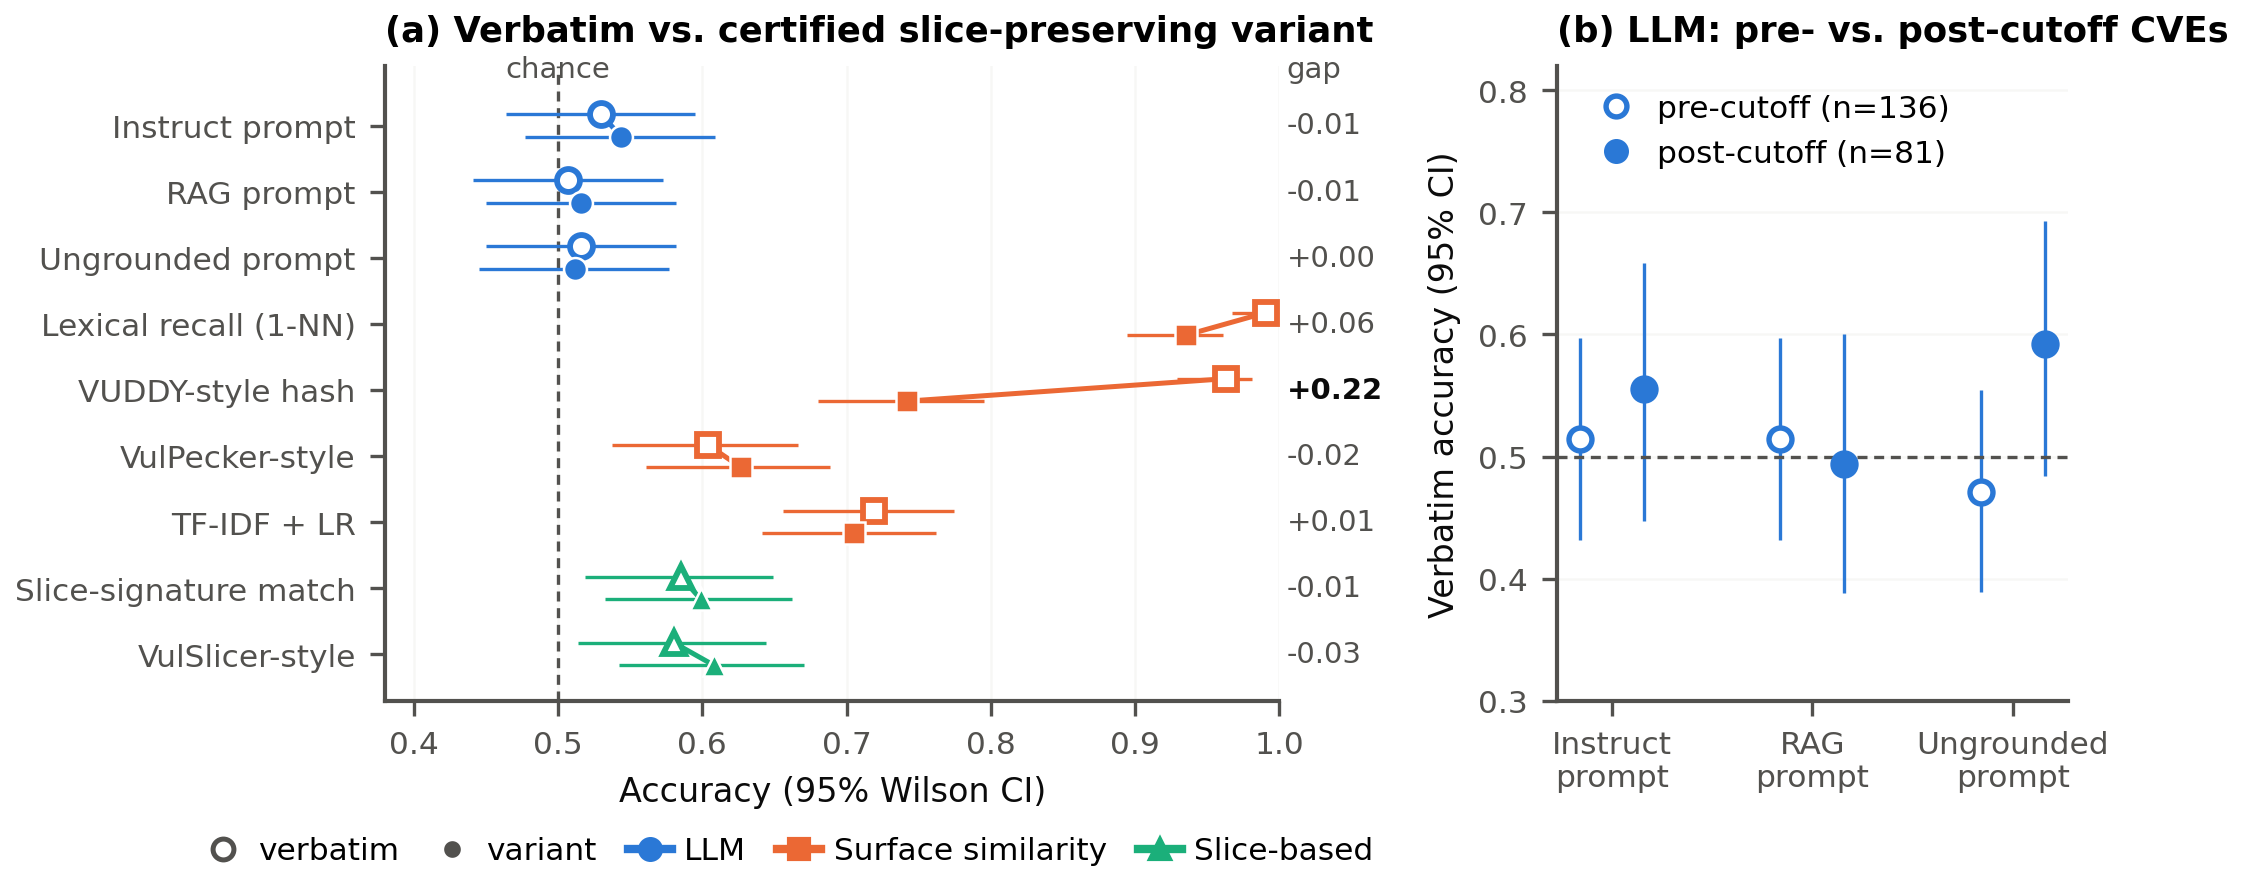
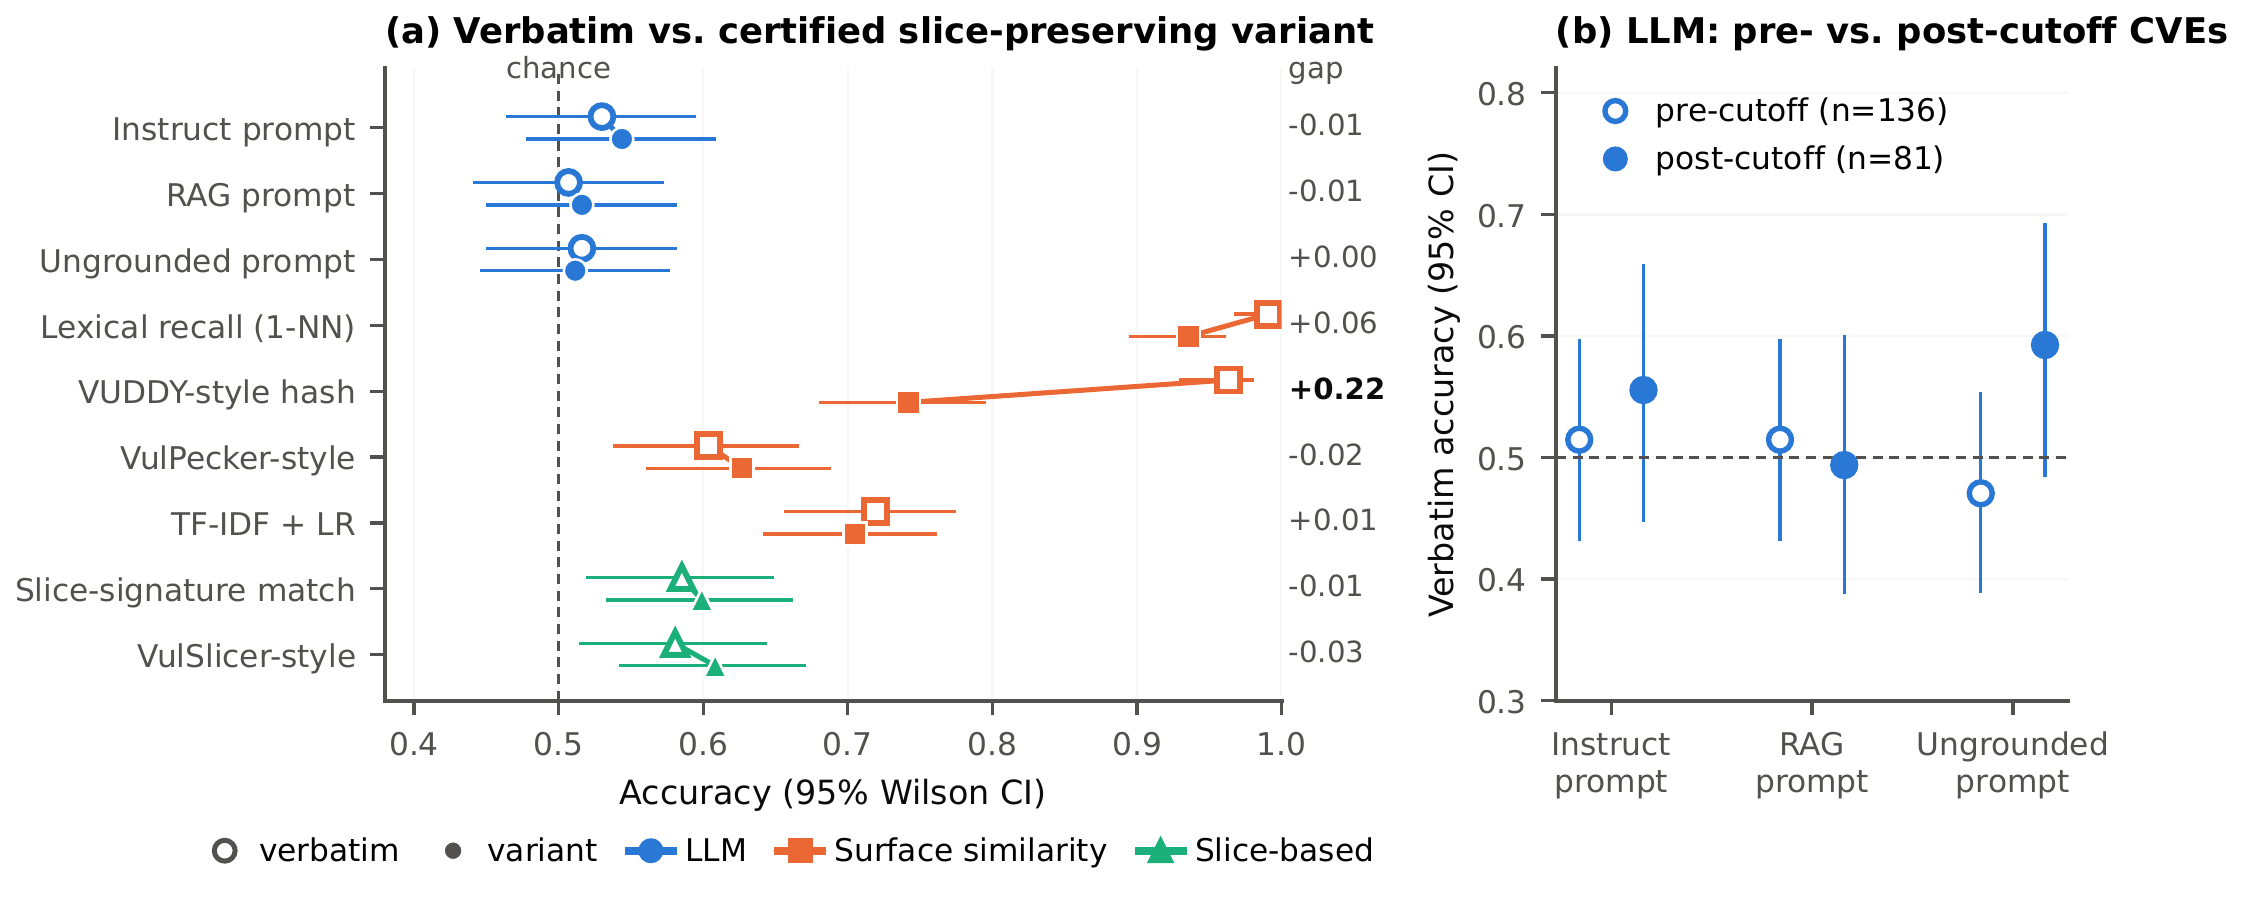
Figures 1 and 3: the exact versions in the submitted paper

diff --git a/figures/src/fig1_architecture.tex b/figures/src/fig1_architecture.tex
@@ -118,7 +118,7 @@
   \node[anchor=north west,text width=\cw cm-0.3cm,align=flush left,font=\scriptsize,text=txt,inner sep=0pt]
     at (\xl+0.15,\ctop-0.6) {\textbf{Varies:} #4\\[1.5pt]\textbf{Measures:} #5\\[1.5pt]\textbf{Data:} #6};
 }
-\card{0}{RQ1}{Grounding}{evidence in \st{toolD}{2} and checks in \st{toolD}{4} (ladder A0--A4)}{VPR, touch}{150 Big-Vul CVEs}
+\card{0}{RQ1}{Grounding}{evidence in \st{toolD}{2} and checks in \st{toolD}{4} (ladder A0--A4; information arms L, M, LM)}{VPR, touch}{150 Big-Vul CVEs}
 \card{1}{RQ2}{Detection}{prompts, reasoning, models in \st{llmD}{1} (Haiku 4.5; Qwen2.5-Coder 7B/14B)}{pair-correct}{150 CVE pairs (94 pre-, 56 post-cutoff)}
 \card{2}{RQ3}{Contamination}{the inputs: pre/post-cutoff CVEs, certified slice-preserving variants, likelihood probe}{accuracy change vs.\ lookup controls}{217 matched functions; repair: 150 + 56 CVEs}
 \card{3}{RQ4}{Porting}{whether \st{toolD}{2} gets the known source fix (P0--P4)}{VPR}{88 hard clones, 23 CVEs}
